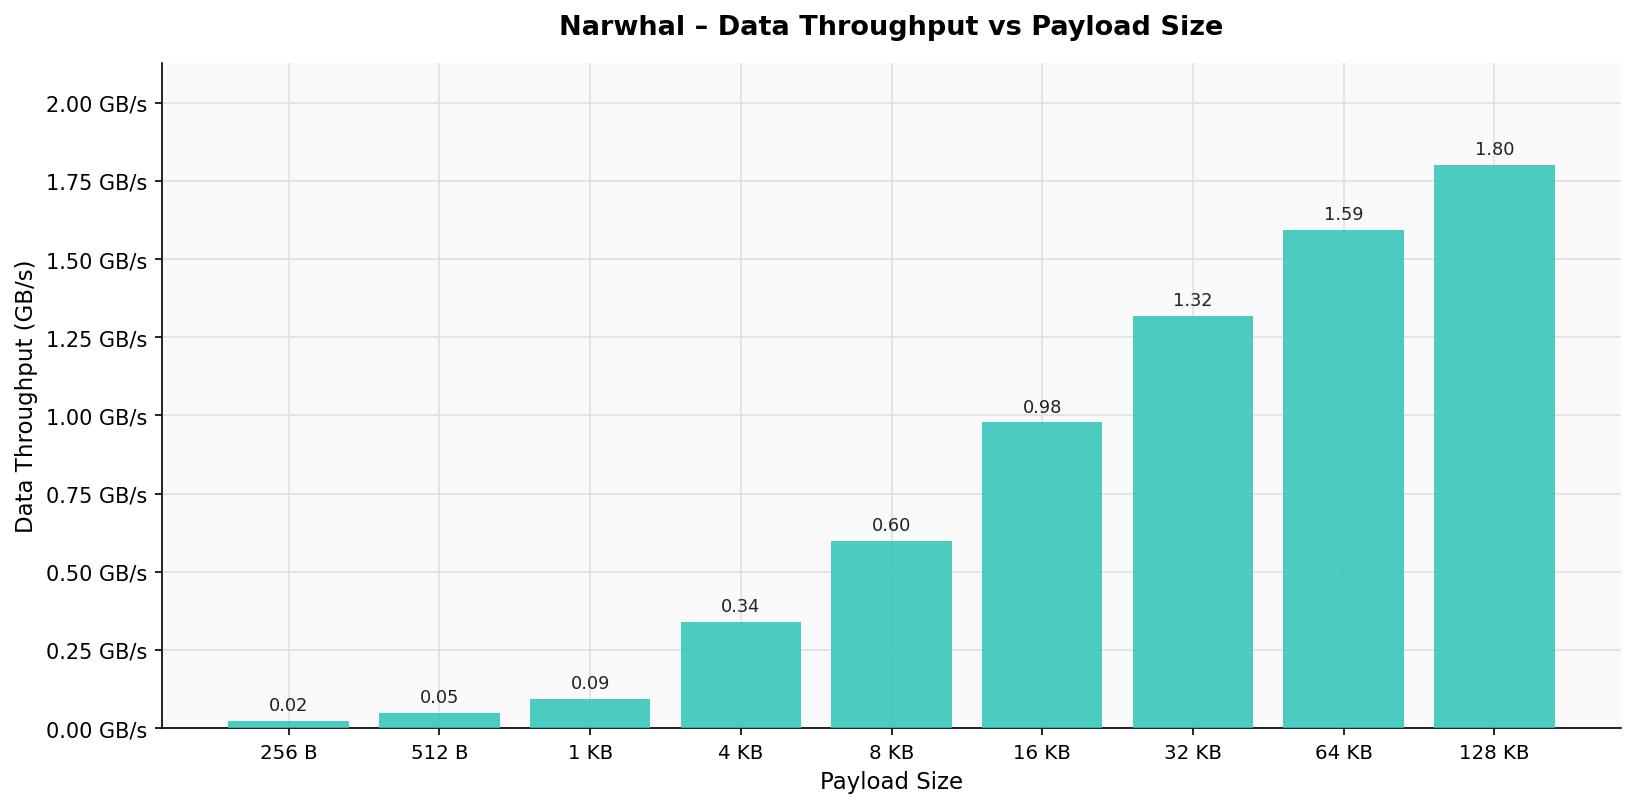
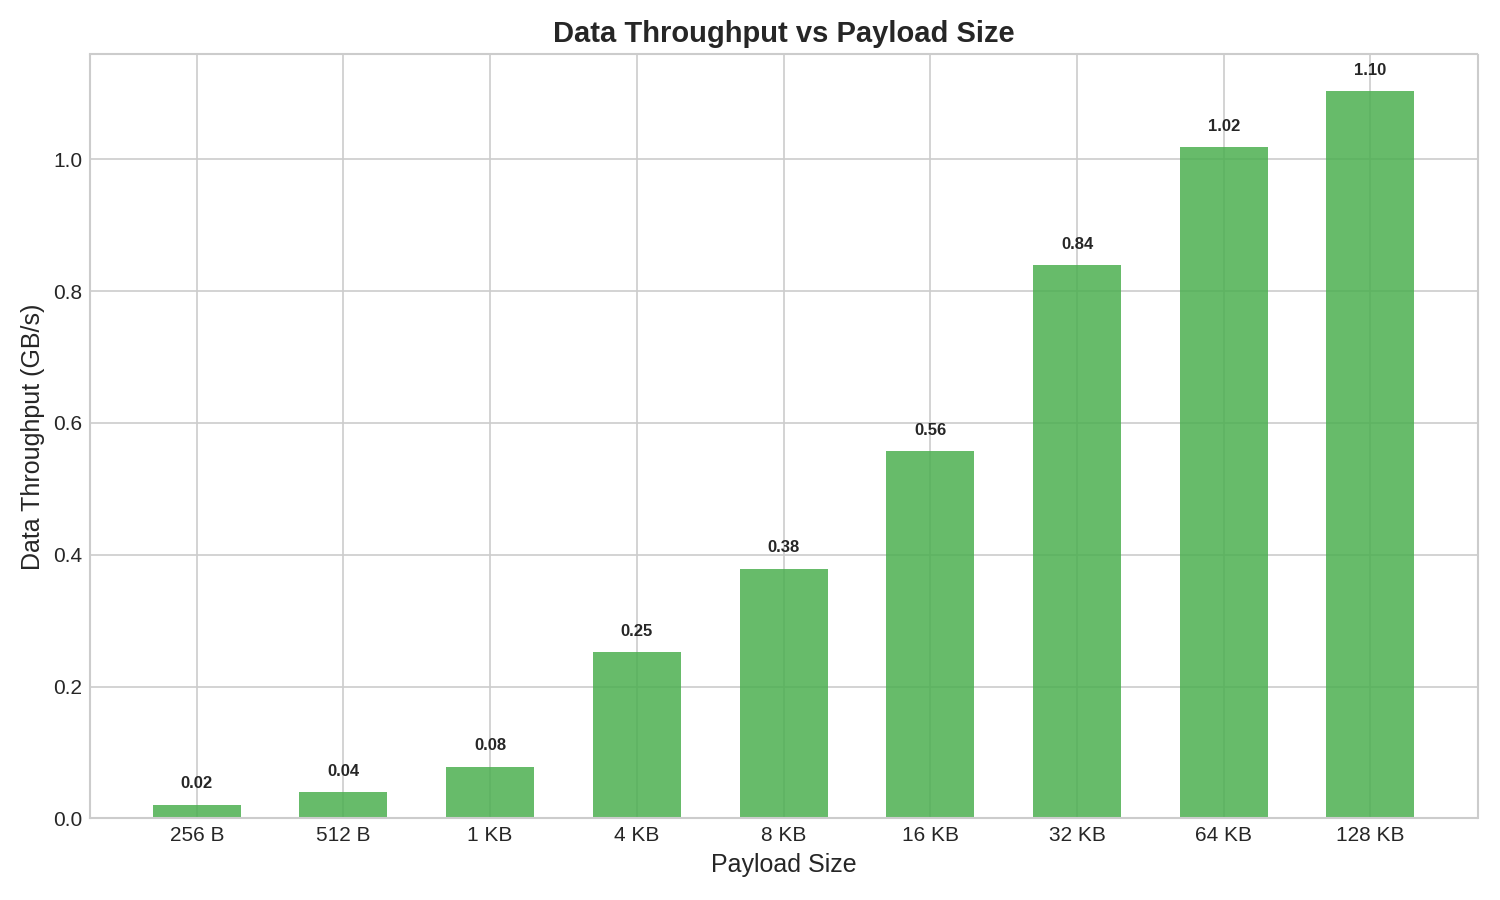
docs: update benchmark results with compio runtime numbers

diff --git a/docs/BENCHMARK.md b/docs/BENCHMARK.md
@@ -49,19 +49,19 @@ cargo build --release -p narwhal-benchmark
 
 ### Performance Overview Table
 
-All benchmarks were run with 1 producer and 1 consumer for 60 seconds.
+All benchmarks were run with 1 producer and 1 consumer for 60 seconds, averaged over 10 runs per payload size.
 
-| Payload Size | Throughput (msg/s) | Data Throughput | Mean Latency | P50 | P95 | P99 | Avg Total Messages | Runs used |
-|--------------|-------------------:|----------------:|-------------:|----:|----:|----:|-------------------:|----------:|
-| 256 B        |             93,026 |       23.8 MB/s |         1.07ms |   1.11ms |   1.20ms |   1.33ms |      5,600,142 | 4/5 |
-| 512 B        |             92,684 |       47.5 MB/s |         1.08ms |   1.01ms |   1.25ms |   1.34ms |      5,579,668 | 4/5 |
-| 1 KB         |             90,407 |       92.6 MB/s |         1.10ms |   1.10ms |   1.17ms |   1.30ms |      5,441,121 | 4/5 |
-| 4 KB         |             83,150 |      340.6 MB/s |         1.20ms |   1.19ms |   1.27ms |   1.41ms |      5,004,638 | 4/5 |
-| 8 KB         |             72,954 |      597.6 MB/s |         1.36ms |   1.36ms |   1.46ms |   1.69ms |      4,391,013 | 4/5 |
-| 16 KB        |             59,675 |      977.7 MB/s |         1.67ms |   1.66ms |   1.78ms |   1.96ms |      3,591,555 | 4/5 |
-| 32 KB        |             40,202 |       1.32 GB/s |         2.48ms |   2.47ms |   2.67ms |   3.01ms |      2,419,756 | 4/5 |
-| 64 KB        |             24,315 |       1.59 GB/s |         4.10ms |   4.08ms |   4.50ms |   5.15ms |      1,463,814 | 4/5 |
-| 128 KB       |             13,750 |       1.80 GB/s |         7.25ms |   7.18ms |   8.08ms |   9.67ms |        828,198 | 4/5 |
+| Payload Size | Throughput (msg/s) | Data Throughput | Mean Latency | P50 | P95 | P99 | Avg Total Messages | Runs |
+|--------------|-------------------:|----------------:|-------------:|----:|----:|----:|-------------------:|-----:|
+| 256 B        |            162,843 |       41.7 MB/s |        0.60ms | 0.60ms | 0.79ms | 0.93ms |          9,800,844 | 10/10 |
+| 512 B        |            157,430 |       20.2 MB/s |        0.62ms | 0.61ms | 0.90ms | 1.03ms |          9,475,422 | 10/10 |
+| 1 KB         |            153,214 |       78.4 MB/s |        0.65ms | 0.63ms | 0.83ms | 1.00ms |          9,223,401 | 10/10 |
+| 4 KB         |            123,012 |      251.9 MB/s |        0.81ms | 0.80ms | 0.89ms | 1.06ms |          7,403,481 | 10/10 |
+| 8 KB         |             92,529 |      379.0 MB/s |        1.08ms | 1.08ms | 1.17ms | 1.29ms |          5,569,542 | 10/10 |
+| 16 KB        |             68,017 |      557.2 MB/s |        1.48ms | 1.48ms | 1.61ms | 1.84ms |          4,110,314 | 10/10 |
+| 32 KB        |             51,197 |      838.8 MB/s |        1.93ms | 1.76ms | 2.03ms | 2.64ms |          3,111,557 | 10/10 |
+| 64 KB        |             31,085 |       1.02 GB/s |        3.16ms | 2.84ms | 4.07ms | 5.08ms |          1,897,140 | 10/10 |
+| 128 KB       |             16,841 |       1.10 GB/s |        5.83ms | 5.88ms | 7.32ms | 8.05ms |          1,029,126 | 10/10 |
 
 ### Visual Performance Analysis
 
@@ -69,7 +69,7 @@ All benchmarks were run with 1 producer and 1 consumer for 60 seconds.
 
 ![Message Throughput vs Payload Size](benchmark_msg_throughput.png)
 
-This graph shows how message throughput (messages per second) varies with payload size. Error bars and individual run points reflect the 4 kept runs. Peak performance is achieved with small payloads, delivering over 93,026 messages per second on average.
+This graph shows how message throughput (messages per second) varies with payload size. Each data point is the average of 10 runs. Peak performance is achieved with small payloads, delivering over 162,000 messages per second on average.
 
 #### Latency
 
@@ -81,16 +81,16 @@ This graph compares Mean, P50, P95, and P99 latency across different payload siz
 
 ![Data Throughput vs Payload Size](benchmark_data_throughput.png)
 
-This graph illustrates the actual data throughput. While message rate decreases with larger payloads, the overall bandwidth increases significantly, peaking at 1.80 GB/s with 128 KB payloads.
+This graph illustrates the actual data throughput. While message rate decreases with larger payloads, the overall bandwidth increases significantly, peaking at 1.10 GB/s with 128 KB payloads.
 
 ### Key Observations
 
-1. **Peak Throughput**: Achieved with 256 B payloads at ~93,026 messages/second
-2. **Consistent Low Latency**: Sub-2ms mean latency maintained across small to medium payload sizes (256B - 8KB)
+1. **Peak Throughput**: Achieved with 256 B payloads at ~162,843 messages/second
+2. **Consistent Low Latency**: Sub-1ms mean latency maintained across small payload sizes (256B - 1KB), sub-2ms up to 32KB
 3. **Payload Size Impact**: As payload size increases, message throughput decreases while data throughput increases, which is expected due to larger data transfers
 4. **Latency Stability**: P99 latency remains very low across all payload sizes, indicating consistent performance
 5. **Zero Errors**: All benchmarks completed without any message loss or errors
-6. **Peak Bandwidth**: 1.80 GB/s achieved at 128 KB payload
+6. **Peak Bandwidth**: 1.10 GB/s achieved at 128 KB payload
 
 ## Notes
 
